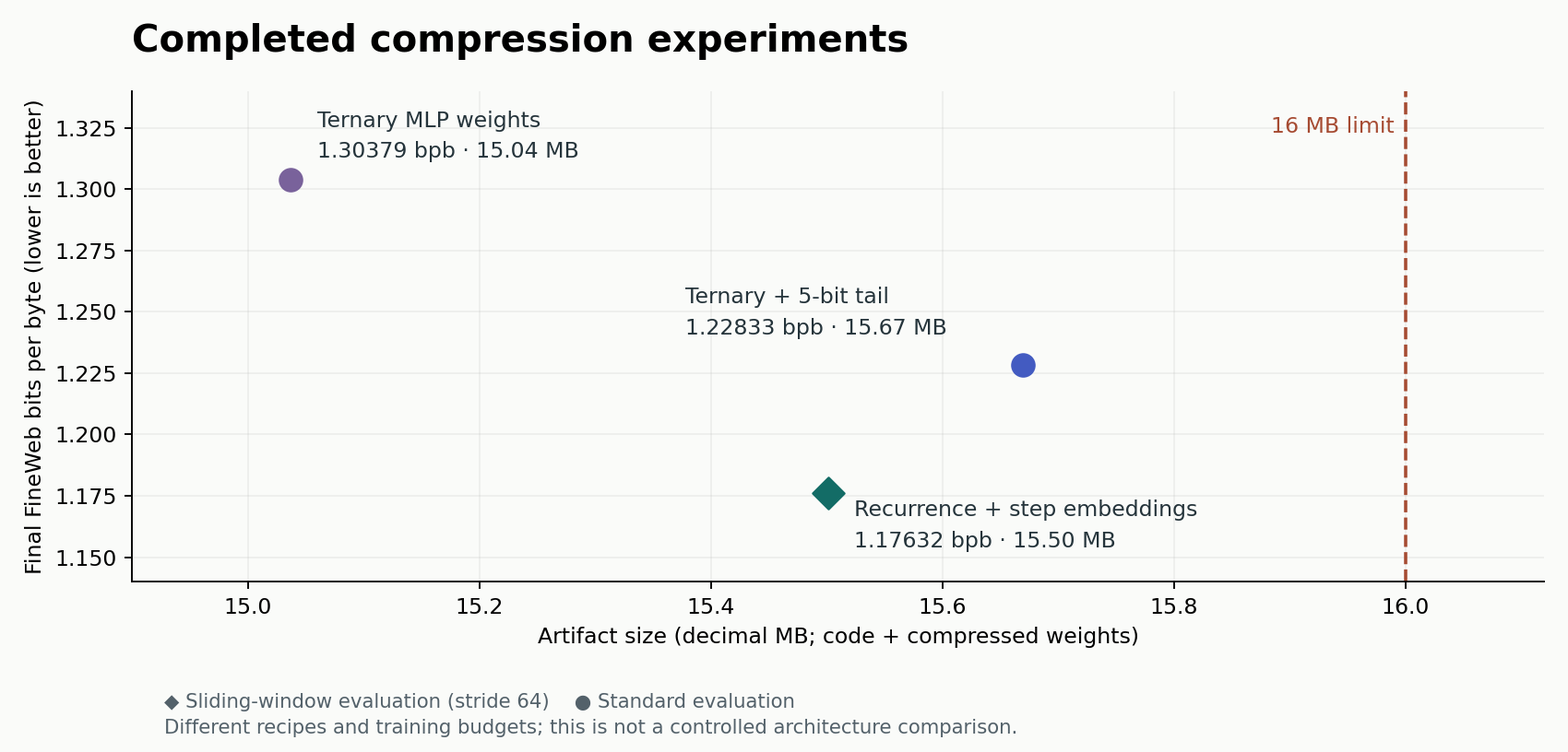
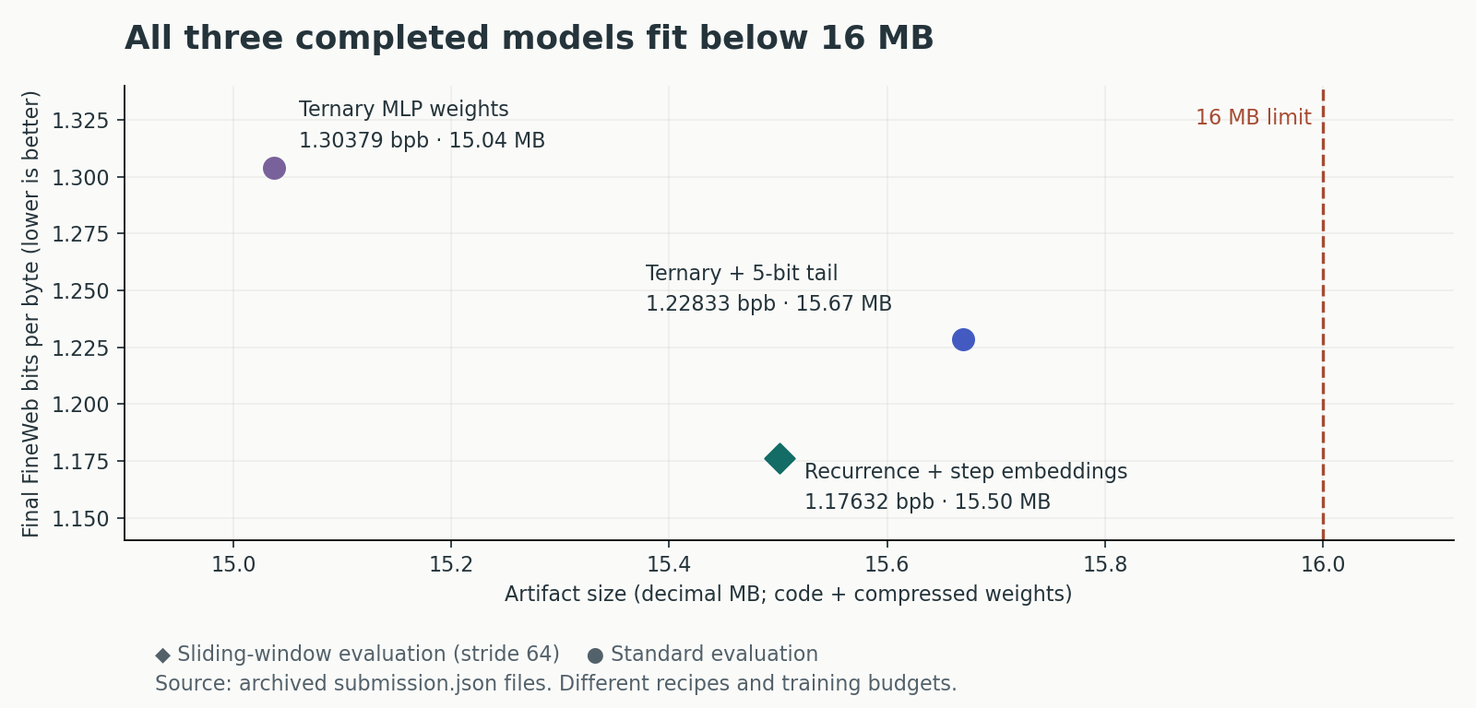
docs: explain the project plainly and expand model and training evidence
Keep the opening accessible, then explain recurrence and selective precision.
Add model configurations, validation curves, and artifact budget figures.
Generate charts from archived metadata and distinguish training signals from final scores.

diff --git a/docs/assets/plot_results.py b/docs/assets/plot_results.py
@@ -1,40 +1,148 @@
-"""Regenerate the README figure from the archived submission metadata."""
+"""Generate the README figures from archived metadata and validation logs.
+
+Run from any working directory with Python and matplotlib installed:
+    python docs/assets/plot_results.py
+
+No GPU, training libraries, or local-only experiment files are required.
+"""
 from pathlib import Path
 import json
+import re
 
 import matplotlib
 
 matplotlib.use("Agg")
 import matplotlib.pyplot as plt
+from matplotlib.ticker import FuncFormatter
 
 ROOT = Path(__file__).resolve().parents[2]
+OUT = Path(__file__).resolve().parent
 RECORDS = ROOT / "records" / "track_non_record_16mb"
 RUNS = [
     ("2026-04-04_Full80_Recurrence_StepEmbed_Seq1536_20k", "Recurrence + step embeddings", "D", "#136c66", (12, -25)),
     ("2026-04-03_15L_HybridTail_Seq1536_20k_1x5090", "Ternary + 5-bit tail", "o", "#435bc1", (-155, 14)),
     ("2026-03-27_15L_Ternary_MLPOnly_20k", "Ternary MLP weights", "o", "#79629b", (12, 10)),
 ]
+BACKGROUND = "#fafbf9"
+INK = "#25343b"
+MUTED = "#53616a"
 
-fig, ax = plt.subplots(figsize=(10, 4.8), facecolor="#fafbf9")
-ax.set_facecolor("#fafbf9")
-for folder, label, marker, color, offset in RUNS:
-    metadata = json.loads((RECORDS / folder / "submission.json").read_text())
-    x, y = metadata["bytes_total"] / 1_000_000, metadata["val_bpb"]
-    ax.scatter(x, y, s=105, marker=marker, color=color, zorder=3)
-    ax.annotate(f"{label}\n{y:.5f} bpb · {x:.2f} MB", (x, y),
-                xytext=offset, textcoords="offset points", fontsize=10,
-                color="#25343b", linespacing=1.6)
-ax.axvline(16, color="#a64b32", linestyle="--", linewidth=1.5)
-ax.text(15.99, 1.323, "16 MB limit", ha="right", color="#a64b32", fontsize=10)
-ax.set(xlim=(14.9, 16.12), ylim=(1.14, 1.34),
-       xlabel="Artifact size (decimal MB; code + compressed weights)",
-       ylabel="Final FineWeb bits per byte (lower is better)")
-ax.set_title("Completed compression experiments", loc="left", fontsize=17, pad=18, weight="bold")
-ax.grid(alpha=.16)
-ax.spines[["top", "right"]].set_visible(False)
-fig.text(.105, .025, "◆ Sliding-window evaluation (stride 64)    ● Standard evaluation\n"
-         "Different recipes and training budgets; this is not a controlled architecture comparison.",
-         fontsize=9, color="#53616a", linespacing=1.5)
-fig.tight_layout(rect=(0, .105, 1, 1))
-fig.savefig(Path(__file__).with_name("results.png"), dpi=170, facecolor=fig.get_facecolor())
-plt.close(fig)
+
+def metadata(folder):
+    return json.loads((RECORDS / folder / "submission.json").read_text())
+
+
+def style_axis(ax):
+    ax.set_facecolor(BACKGROUND)
+    ax.spines[["top", "right"]].set_visible(False)
+    ax.tick_params(colors=INK)
+    ax.set_axisbelow(True)
+
+
+def save(fig, name):
+    fig.savefig(OUT / name, dpi=160, facecolor=BACKGROUND)
+    plt.close(fig)
+
+
+def plot_results():
+    fig, ax = plt.subplots(figsize=(10, 4.8), facecolor=BACKGROUND)
+    style_axis(ax)
+    for folder, label, marker, color, offset in RUNS:
+        data = metadata(folder)
+        x, y = data["bytes_total"] / 1_000_000, data["val_bpb"]
+        ax.scatter(x, y, s=105, marker=marker, color=color, zorder=3)
+        ax.annotate(f"{label}\n{y:.5f} bpb · {x:.2f} MB", (x, y),
+                    xytext=offset, textcoords="offset points", fontsize=10,
+                    color=INK, linespacing=1.6)
+    ax.axvline(16, color="#a64b32", linestyle="--", linewidth=1.5)
+    ax.text(15.99, 1.323, "16 MB limit", ha="right", color="#a64b32", fontsize=10)
+    ax.set(xlim=(14.9, 16.12), ylim=(1.14, 1.34),
+           xlabel="Artifact size (decimal MB; code + compressed weights)",
+           ylabel="Final FineWeb bits per byte (lower is better)")
+    ax.set_title("All three completed models fit below 16 MB", loc="left", fontsize=16, pad=18, weight="bold")
+    ax.grid(alpha=.16)
+    fig.text(.105, .025, "◆ Sliding-window evaluation (stride 64)    ● Standard evaluation\n"
+             "Source: archived submission.json files. Different recipes and training budgets.",
+             fontsize=10, color=MUTED, linespacing=1.5)
+    fig.tight_layout(rect=(0, .115, 1, 1))
+    save(fig, "results.png")
+
+
+def validation_points(folder, quantized=False):
+    text = (RECORDS / folder / "train.log").read_text()
+    metric = r"quant_proxy mode:\S+ " if quantized else ""
+    pattern = rf"^step:(\d+)/\d+ {metric}val_loss:[0-9.]+ val_bpb:([0-9.]+).*?$"
+    # Anchor to actual log lines; source code printed earlier in the log is ignored.
+    points = {int(step): float(value) for step, value in re.findall(pattern, text, re.M)}
+    points = sorted((step, value) for step, value in points.items() if step > 0)
+    if not points:
+        raise ValueError(f"No validation checkpoints found for {folder}")
+    return points
+
+
+def plot_training():
+    recurrence = validation_points(RUNS[0][0])
+    hybrid = validation_points(RUNS[1][0], quantized=True)
+    fig, axes = plt.subplots(1, 2, figsize=(11, 5.0), facecolor=BACKGROUND)
+    panels = [
+        (axes[0], recurrence, "Recurrence: 10k → 20k continuation", "Full-precision validation bpb", "#136c66", "o"),
+        (axes[1], hybrid, "Hybrid: quantized model improves", "Quantized-proxy validation bpb", "#435bc1", "s"),
+    ]
+    for ax, points, title, ylabel, color, marker in panels:
+        style_axis(ax)
+        steps, values = zip(*points)
+        ax.plot(steps, values, color=color, marker=marker, markersize=4, linewidth=2)
+        ax.set(title=title, xlabel="Training step", ylabel=ylabel)
+        ax.title.set_fontsize(12)
+        ax.title.set_weight("bold")
+        ax.xaxis.set_major_formatter(FuncFormatter(lambda value, _: f"{value / 1000:g}k"))
+        ax.grid(alpha=.16)
+        ax.margins(x=.13, y=.25)
+        first_offset = (8, -20) if points is recurrence else (8, 10)
+        for index, offset in [(0, first_offset), (-1, (-8, -20))]:
+            ax.annotate(f"{values[index]:.4f}", (steps[index], values[index]),
+                        xytext=offset, textcoords="offset points", fontsize=10,
+                        color=color, weight="bold", ha="left" if index == 0 else "right")
+    fig.suptitle("Validation improves during the recorded training stages", x=.06, ha="left", fontsize=16, weight="bold")
+    fig.text(.06, .025, "Source: archived train.log validation checkpoints; no smoothing.\n"
+             "Panels use different metrics and scales. These are training signals, not final exported-model scores.",
+             fontsize=10, color=MUTED, linespacing=1.5)
+    fig.tight_layout(rect=(0, .14, 1, .94), w_pad=2)
+    save(fig, "training_progress.png")
+
+
+def plot_budget():
+    fig, ax = plt.subplots(figsize=(10, 4.2), facecolor=BACKGROUND)
+    style_axis(ax)
+    labels = ["Recurrence", "Hybrid tail", "Pure ternary MLP"]
+    for y, (folder, _, _, color, _) in enumerate(RUNS):
+        used = metadata(folder)["bytes_total"] / 1_000_000
+        free = 16 - used
+        ax.barh(y, used, color=color, height=.52)
+        ax.barh(y, free, left=used, color="#e2e7e7", edgecolor="#88969e", hatch="////", height=.52)
+        ax.text(.35, y, f"{used:.2f} MB used", color="white", va="center", fontsize=11, weight="bold")
+        ax.text(16.35, y, f"{free:.2f} MB free", color=INK, va="center", fontsize=11)
+    ax.axvline(16, color="#a64b32", linestyle="--", linewidth=1.5)
+    ax.text(15.9, -.47, "16 MB cap", ha="right", color="#a64b32", fontsize=10)
+    ax.set(yticks=range(3), yticklabels=labels, xlim=(0, 19.8),
+           xticks=[0, 4, 8, 12, 16], xlabel="Artifact size (decimal MB; code + compressed weights)",
+           ylim=(2.6, -.8))
+    ax.grid(axis="x", alpha=.16)
+    ax.spines["left"].set_visible(False)
+    ax.tick_params(axis="y", length=0, labelsize=11)
+    ax.set_title("Compressed artifacts leave 0.33–0.96 MB below the cap", loc="left", fontsize=15, weight="bold", pad=18)
+    fig.text(.17, .025, "Solid: recorded artifact size    Hatched: unused budget\nSource: archived submission.json files; sizes include counted code.",
+             fontsize=10, color=MUTED, linespacing=1.5)
+    fig.tight_layout(rect=(0, .14, 1, 1))
+    save(fig, "artifact_budget.png")
+
+
+def main():
+    plt.rcParams.update({"font.size": 10, "axes.labelcolor": INK, "text.color": INK})
+    plot_results()
+    plot_training()
+    plot_budget()
+
+
+if __name__ == "__main__":
+    main()

diff --git a/README.md b/README.md
@@ -1,51 +1,126 @@
-# Parameter Golf: Small Language Model Compression Experiments
+# Parameter Golf: Small Language Models in 16 MB
 
-**Recurrence, ternary quantization, and selective precision under a 16 MB model budget.**
+**Training language models that predict text well and fit into 16 MB.**
 
-This repository documents my experiments for OpenAI's Parameter Golf competition. I explored how shared transformer blocks and aggressive weight compression can improve language modeling within a fixed artifact size, using an RTX 5060 for local experiments and an RTX 5090 for a promoted run.
+This is my experiment portfolio from OpenAI's Parameter Golf competition. The task was to train a model that predicts unseen text well while keeping its saved weights and code below **16 MB**. I worked on two ways to use that small budget: reusing model layers and storing weights with fewer bits.
 
-**Best documented result: 1.17631839 bits per byte with a 15.50 MB artifact on one RTX 5060.** The model uses 8 unique transformer blocks for 10 effective layers, with learned embeddings to distinguish recurrent passes.
+My best documented model reached **1.1763 bits per byte at 15.50 MB**, trained on **one NVIDIA RTX 5060**. Bits per byte measures how efficiently the model predicts the validation text; **lower is better**. I used Python, PyTorch, and CUDA for training, and also trained one model on an RTX 5090.
 
-This is Shasank's competition fork of [openai/parameter-golf](https://github.com/openai/parameter-golf), now organized as a completed experiment portfolio. The featured runs are **unlimited-compute, non-record experiments**; they do not establish compliance with the 10-minute, 8×H100 leaderboard track.
+I adapted the competition code, ran and compared experiments, and documented the results. These are completed **unlimited-compute, non-record experiments**, rather than results from the 10-minute leaderboard track. The repository remains a fork of [OpenAI's original project](https://github.com/openai/parameter-golf).
 
-[Results and lessons](docs/RESULTS.md) · [Reproduce the experiments](docs/REPRODUCING.md) · [Original competition documentation](COMPETITION.md)
+[Results and evidence](#results-and-evidence) · [How the models work](#how-the-models-work) · [Training graphs](#what-the-training-logs-show) · [Run it yourself](#inspect-or-rerun)
 
-## My contributions
+## What I contributed
 
-- **Depth recurrence:** adapted the training model to reuse a middle pair of transformer blocks, with learned step embeddings so repeated passes can specialize without duplicating the core weights.
-- **Ternary MLP experiments:** explored quantization-aware training and export for MLP weights, then scaled the branch to 15 layers and 20,000 training steps.
-- **Selective precision:** kept most MLP weights ternary while protecting the final MLP block with 5-bit precision; the completed hybrid run reached 1.22833292 bits per byte.
-- **Export and evaluation:** tuned bigram precision and pruning to fit the byte limit, and checked quality after exporting and reloading the compressed model.
-- **Experiment engineering:** developed checkpoint continuation, quantized-proxy validation, and log comparison workflows. The included [comparison tool](tools/compare_runs.py) lets readers inspect the archived runs without a GPU.
+| Area | My work | Why it matters |
+| --- | --- | --- |
+| Layer sharing | Reused a pair of transformer blocks and added learned embeddings to distinguish repeated passes. | Adds computation without storing a separate set of core weights for every pass. |
+| Ternary MLP weights | Developed and evaluated a 15-layer branch that constrains feed-forward weights to three quantized levels. | Makes room for more model capacity within the file-size limit. |
+| Selective precision | Kept most MLP weights ternary while protecting the final MLP with 5-bit precision. | Explores where extra precision is more useful than uniform compression. |
+| Export and evaluation | Tuned bigram precision and pruning, then measured the exported and reloaded model. | Checks whether a training improvement survives compression and fits the budget. |
+| Experiment engineering | Added checkpoint continuation, quantized-proxy validation, and log comparison workflows. | Makes long runs easier to resume and their outcomes easier to inspect. |
 
-These changes build on the competition trainer and community methods, including mixed-bit compression, BigramHash, SmearGate, Muon optimization, and weight averaging. The original challenge, baseline, dataset pipeline, and community leaderboard entries belong to their respective authors.
+The foundation comes from the competition trainer and community methods, including mixed-bit compression, BigramHash, SmearGate, Muon optimization, and weight averaging. My contributions are the adaptations and experiments described here; the original challenge and inherited community records retain their attribution.
 
-## Completed results
+## Results and evidence
 
-Scores are FineWeb validation **bits per byte (lower is better)** after compressed-model export and reload. Sizes include the recorded code and compressed weights; MB means 1,000,000 bytes.
+All three featured models completed **20,000 training steps**. Their scores below were measured after saving, compressing, and reloading the model. Artifact sizes count **code plus compressed weights**, using decimal MB.
 
-| Experiment | Final bits/byte ↓ | Artifact | GPU | Steps | Final evaluation | Evidence |
+| Experiment | Final bits/byte ↓ | Artifact | GPU | Training time | Final evaluation | Evidence |
 | --- | ---: | ---: | --- | ---: | --- | --- |
-| **Shared-block recurrence + step embeddings** | **1.17631839** | **15.50 MB** | RTX 5060 | 20,000 | Sliding window, stride 64 | [Code, log, metadata](records/track_non_record_16mb/2026-04-04_Full80_Recurrence_StepEmbed_Seq1536_20k/) |
-| 15-layer ternary + 5-bit tail MLP | 1.22833292 | 15.67 MB | RTX 5090 | 20,000 | Standard | [Code, log, metadata](records/track_non_record_16mb/2026-04-03_15L_HybridTail_Seq1536_20k_1x5090/) |
-| 15-layer ternary MLP weights | 1.30378846 | 15.04 MB | RTX 5060 | 20,000 | Standard | [Code, log, metadata](records/track_non_record_16mb/2026-03-27_15L_Ternary_MLPOnly_20k/) |
+| **Shared-block recurrence + step embeddings** | **1.17631839** | **15.50 MB** | RTX 5060 | 11.03 h | Sliding window, stride 64 | [Code, log, metadata](records/track_non_record_16mb/2026-04-04_Full80_Recurrence_StepEmbed_Seq1536_20k/) |
+| 15-layer ternary + 5-bit tail MLP | 1.22833292 | 15.67 MB | RTX 5090 | 3.25 h | Standard | [Code, log, metadata](records/track_non_record_16mb/2026-04-03_15L_HybridTail_Seq1536_20k_1x5090/) |
+| 15-layer ternary MLP weights | 1.30378846 | 15.04 MB | RTX 5060 | 6.52 h | Standard | [Code, log, metadata](records/track_non_record_16mb/2026-03-27_15L_Ternary_MLPOnly_20k/) |
 
-![Completed experiments: final bits per byte versus artifact size, with evaluation mode shown by marker](docs/assets/results.png)
+![The recurrence run has the lowest reported bits per byte; all three models fit below 16 MB. Marker shapes distinguish sliding-window and standard evaluation.](docs/assets/results.png)
 
-These are results from different training recipes, budgets, hardware, and evaluation modes, rather than a controlled architecture comparison. The recurrence run's recorded training time is about 11.03 hours, including its initial 10k stage; final evaluation took a further 3.86 hours. See [measurement details](docs/RESULTS.md) for exact sizes, timings, and limitations. The folders preserve prepared non-record submission packages; no upstream acceptance or competition placement is claimed here.
+**How to read the comparison:** these runs differ in architecture, training budget, hardware, and evaluation. The recurrence result uses overlapping evaluation windows to give predictions more context. The table compares completed recipes; it does not isolate the gain from one architectural change. Training times exclude final evaluation, which added about **3.86 hours** for the recurrence model. See [exact measurements and limitations](docs/RESULTS.md).
 
-## What I learned
+## How the models work
 
-- **The exported model is the result.** Full-precision validation can misrepresent ternary model quality. A quantized proxy and the final export/reload evaluation were more useful signals.
-- **Precision placement matters.** Protecting the tail MLP was a useful alternative to simply widening every ternary MLP. The experiment ledger also contains configurations that improved quality but exceeded the byte cap.
-- **More training does not always help.** The pure ternary branch's 25k extension scored worse than its 20k checkpoint.
-- **Resume behavior needs explicit checks.** A checkpoint saved after learning-rate warmdown can resume at zero learning rate. The successful recurrence continuation used an explicit extension scale.
+### 1. Reuse layers instead of storing every layer separately
 
-The [results discussion](docs/RESULTS.md) includes negative experiments and distinguishes observations from untested ideas.
+A transformer normally stores different weights for each layer. The recurrence model runs the same middle pair of blocks twice. A small learned **step embedding** tells the shared blocks which pass they are performing.
+
+```mermaid
+flowchart LR
+    A[Text tokens] --> B[Embeddings]
+    B --> C[Blocks 0, 1, 2]
+    C --> D[Shared blocks 3 and 4]
+    D -->|Second pass with step embedding| D
+    D --> E[Blocks 5, 6, 7]
+    E --> F[Next-token predictions]
+```
+
+This is a simplified view of the repeated computation; residual and skip connections are omitted. The actual block order is:
+
+```text
+0 → 1 → 2 → 3 → 4 → 3 → 4 → 5 → 6 → 7
+```
+
+That gives **10 effective layers from 8 unique blocks**, with about **25.9 million parameters**. The final recipe uses model width 576, a 1,536-token training context, step embeddings, and mixed-bit export. It continued a saved 10k checkpoint to 20k steps.
+
+The earlier mixed-lowbit control scored **1.21832265 bpb** with the same stride-64 final evaluation. The recurrence recipe reached **1.17631839 bpb**, an observed reduction of **0.0420 bpb (3.45%)**. Architecture, schedule, and export settings changed together, so this is a recipe-level improvement. The [results discussion](docs/RESULTS.md#why-recurrence-was-the-main-result) links the control's recorded finalization output.
+
+### 2. Compress MLP weights, then protect a sensitive block
+
+The **MLP** is the feed-forward part of each transformer block. In the ternary branch, its quantized weights use three levels, with per-row scaling, instead of storing every weight at ordinary floating-point precision. Attention and other tensors keep their own precision.
+
+The hybrid branch makes a targeted exception: it stores the final MLP block at **5 bits** while keeping the other MLPs on the ternary path. This trades a small amount of file space for a more flexible final block.
+
+| Setting | Recurrence | Pure ternary MLP | Hybrid tail |
+| --- | --- | --- | --- |
+| Effective / unique layers | 10 / 8 | 15 / 15 | 15 / 15 |
+| Model width | 576 | 512 | 512 |
+| Training context | 1,536 tokens | 1,024 tokens | 1,536 tokens |
+| Training batch | 122,880 tokens | 65,536 tokens | 122,880 tokens |
+| MLP compression | Mixed low-bit | Ternary weights | Ternary, except 5-bit final MLP |
+| Bigram export precision | 4 bits | 5 bits | 5 bits |
+
+The hybrid result also changed context length and training batch, so its full improvement cannot be attributed to tail precision alone. The [pure ternary](records/track_non_record_16mb/2026-03-27_15L_Ternary_MLPOnly_20k/README.md) and [hybrid](records/track_non_record_16mb/2026-04-03_15L_HybridTail_Seq1536_20k_1x5090/README.md) packages contain the exact configurations.
+
+## What the training logs show
+
+The graph below uses validation checkpoints from the archived logs, without smoothing or invented measurements. The recurrence log begins at its **10k resume point**. For the hybrid run, the useful training signal is the **quantized proxy**: a temporary quantized copy evaluated during training.
+
+![The recurrence continuation improves from 1.2218 to 1.1730 full-precision validation bpb. The hybrid run's quantized proxy improves from 1.4721 at step 1,000 to 1.2191 at step 20,000. The two panels use different metrics and scales.](docs/assets/training_progress.png)
+
+| Logged training signal | First point shown | Last point shown |
+| --- | ---: | ---: |
+| Recurrence, full-precision validation | 1.2218 at step 10,000 | 1.1730 at step 20,000 |
+| Hybrid, quantized-proxy validation | 1.4721 at step 1,000 | 1.2191 at step 20,000 |
+
+These curves describe progress **within each run**. They are not the final exported-model scores. Weight averaging, pruning, serialization, and the final evaluation protocol happen later. In particular, ordinary full-precision validation was a misleading guide for the ternary branch; measuring a quantized proxy made its progress easier to judge.
+
+### Fitting the artifact budget
+
+The final size check is strict: **16,000,000 bytes**, including code. The recurrence recipe used 4-bit bigram export and 3.3% one-shot magnitude pruning to stay under that cap. The bigram component adds features from adjacent token pairs; its export precision is another way to trade bytes against quality.
+
+![All three archived artifacts fit the cap: recurrence uses 15.50 MB with 0.50 MB free, hybrid uses 15.67 MB with 0.33 MB free, and pure ternary uses 15.04 MB with 0.96 MB free.](docs/assets/artifact_budget.png)
+
+| Model | Recorded total | Space below the cap |
+| --- | ---: | ---: |
+| Recurrence | 15,501,266 bytes | 498,734 bytes |
+| Hybrid tail | 15,669,833 bytes | 330,167 bytes |
+| Pure ternary MLP | 15,037,372 bytes | 962,628 bytes |
+
+The [plotting script](docs/assets/plot_results.py) regenerates all three figures from the published metadata and logs. Source changes or a different compression library can alter a future artifact's size.
+
+## Experiment process and lessons
+
+My workflow moved from short checks to longer runs: validate the code and export path, compare promising candidates, continue the stronger ones, then check the final compressed artifact. The local experiment ledger records both successful and discarded directions; [selected observations](docs/RESULTS.md#negative-results-and-engineering-lessons) are summarized in the results discussion.
+
+- **Measure what will actually be saved.** A good full-precision validation score is not enough if compression changes the model's behavior.
+- **Spend precision selectively.** Wider ternary MLPs improved a short run but exceeded 16 MB. Targeted precision and export adjustments provided other ways to use the budget.
+- **Check longer training against a stopping point.** The pure ternary model's 25k extension scored 1.30946 bpb, worse than its 20k checkpoint at 1.30379.
+- **Treat checkpoint continuation as part of the experiment.** A checkpoint saved after learning-rate warmdown can resume at zero learning rate. The successful recurrence continuation explicitly set its extension scale to 0.2.
+- **Count evaluation cost too.** Reducing the recurrence evaluation stride from 64 to 32 barely changed the score while roughly doubling evaluation time.
+
+These are individual runs, without repeated-seed confidence intervals. Their folders preserve prepared non-record submission packages; no competition placement or upstream acceptance is claimed. This project measures text prediction/compression, rather than chat or downstream reasoning ability.
 
 ## Inspect or rerun
 
-No GPU is needed to read the logs or compare the completed results:
+Read and compare the completed runs without a GPU:
 
 ```bash
 git clone https://github.com/shasank0001/parameter-golf.git
@@ -55,20 +130,21 @@ python3 tools/compare_runs.py \
   records/track_non_record_16mb/2026-04-03_15L_HybridTail_Seq1536_20k_1x5090/train.log
 ```
 
-For CUDA setup, data download, and the two-stage recurrence training recipe, use the [reproduction guide](docs/REPRODUCING.md). Historical checkpoints and compressed weights are not bundled; the published evidence consists of source snapshots, logs, and metadata.
+The comparison tool uses Python's standard library. For CUDA setup, FineWeb data download, and the two-stage recurrence recipe, follow the [reproduction guide](docs/REPRODUCING.md). Historical model weights and checkpoints are not bundled; source snapshots, logs, and metadata are available to inspect. The guide distinguishes recipe reconstruction from exact replay.
 
-## Repository map
+## Repository guide
 
-| Path | Purpose |
+| Path | What to find |
 | --- | --- |
-| [`docs/RESULTS.md`](docs/RESULTS.md) | Results, measurement conventions, and experiment lessons |
-| [`docs/REPRODUCING.md`](docs/REPRODUCING.md) | Setup and recurrence training recipe |
-| [`records/track_non_record_16mb/`](records/track_non_record_16mb/) | Completed personal experiments alongside inherited community records; use the links above for my three runs |
+| [`docs/RESULTS.md`](docs/RESULTS.md) | Exact measurements, comparison limits, and negative experiments |
+| [`docs/REPRODUCING.md`](docs/REPRODUCING.md) | Setup and recurrence training commands |
+| [`docs/assets/`](docs/assets/) | Graphs and their generation script |
+| [`records/track_non_record_16mb/`](records/track_non_record_16mb/) | Completed personal and inherited community experiments; my three packages are linked in the results table |
 | [`tools/compare_runs.py`](tools/compare_runs.py) | Compare logged training losses and final metrics |
-| [`train_gpt.py`](train_gpt.py), [`train_gpt_mlx.py`](train_gpt_mlx.py) | Inherited competition starting points; featured experiments use the snapshots in their record folders |
-| [`data/`](data/) | Competition data download and tokenizer workflows |
-| [`COMPETITION.md`](COMPETITION.md) | Archived competition README, including the community leaderboard |
+| [`train_gpt.py`](train_gpt.py), [`train_gpt_mlx.py`](train_gpt_mlx.py) | Competition starting points on GitHub; use the record snapshots for the featured experiments |
+| [`data/`](data/) | Dataset and tokenizer workflows |
+| [`COMPETITION.md`](COMPETITION.md) | Archived original competition README and community leaderboard |
 
 ## Credits and license
 
-Project experiments by [Shasank](https://github.com/shasank0001). Forked from [OpenAI Parameter Golf](https://github.com/openai/parameter-golf), which adapts [modded-nanogpt](https://github.com/KellerJordan/modded-nanogpt). Community record folders retain their original attribution. See the [MIT license](LICENSE) and [third-party notices](THIRD_PARTY_NOTICES.md).
+Project experiments by [Shasank](https://github.com/shasank0001). Forked from [OpenAI Parameter Golf](https://github.com/openai/parameter-golf), which adapts [modded-nanogpt](https://github.com/KellerJordan/modded-nanogpt). Community records retain their original attribution. See the [MIT license](LICENSE) and [third-party notices](THIRD_PARTY_NOTICES.md).
